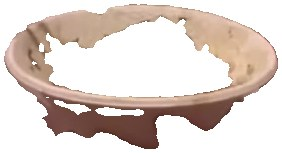
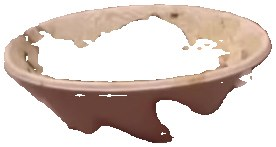
Refresh HOI gallery to prefer photographic cutouts over drifted Qwen edits.

diff --git a/js/gallery.js b/js/gallery.js
@@ -89,14 +89,16 @@ function renderSample(sample) {
       variants.push({ label: "raw crop", path: ref.raw });
     }
     if (ref.mask) variants.push({ label: "SAM mask", path: ref.mask });
-    if (
-      ref.edited ||
-      (ref.path &&
-        (sample.pipeline === "sam2_qwen_edit" ||
-          sample.pipeline === "sam2_qwen_edit_hoi_object"))
+    if (ref.edited) {
+      variants.push({ label: "Qwen edit", path: ref.edited });
+    } else if (
+      ref.path &&
+      ref.path !== ref.raw &&
+      (sample.pipeline === "sam2_qwen_edit" ||
+        sample.pipeline === "sam2_qwen_edit_hoi_object")
     ) {
-      variants.push({ label: "Qwen edit", path: ref.edited || ref.path });
-    } else if (ref.path) {
+      variants.push({ label: "object ref", path: ref.path });
+    } else if (ref.path && !viewPaths.length) {
       variants.push({
         label: ref.media_type === "video" ? "source" : "ref",
         path: ref.media_type === "video" ? ref.poster || ref.path : ref.path,

diff --git a/scripts/sync_multiref_gallery.py b/scripts/sync_multiref_gallery.py
@@ -179,7 +179,9 @@ def main() -> None:
                 entry["path"] = f"media/samples/{rel}/{name}"
                 entry["edited"] = entry["path"]
             elif entry.get("raw"):
+                # Qwen skipped (incomplete / no hand fringe): photographic cutout is the ref.
                 entry["path"] = entry["raw"]
+                entry["qwen_skipped"] = ref.get("qwen_skipped")
             refs.append(entry)
 
         text = row.get("text") or {}
@@ -207,7 +209,7 @@ def main() -> None:
                 **meta,
             },
             "references": refs,
-            "notes": "SAM2 mask cutouts → MASt3R same-object filter → pick most complete view → Qwen-Image-Edit",
+            "notes": "SAM2 cutouts → pick most complete view; Qwen only if complete+hand fringe",
         }
         new_samples.append(sample)
         print("ok", sid, "refs", len(refs))
